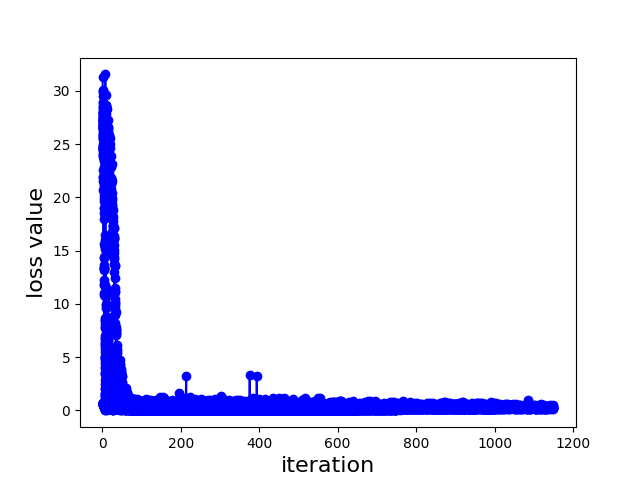
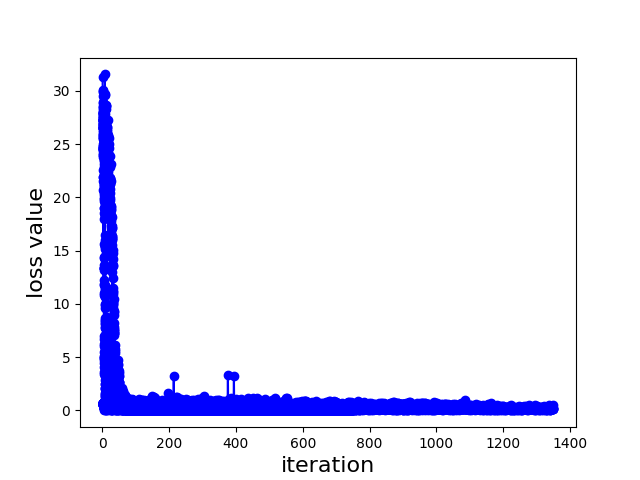
donezo

diff --git a/test.py b/test.py
@@ -1,11 +1,21 @@
-import torch
-import torch_scatter
-import torch_geometric
-import torch_sparse
-import torch_cluster
-from minimol import Minimol
-print("torch version:", torch.__version__)
-print('cuda available:', torch.cuda.is_available())
-if torch.cuda.is_available():
-    print('gpu:', torch.cuda.get_device_name(0))
-print('All imports successful!')
+from deepmol.compound_featurization import MorganFingerprint
+from deepmol.datasets.datasets import SmilesDataset
+from deepmol.models import SklearnModel
+from sklearn.ensemble import RandomForestClassifier
+import numpy as np
+smiles =[
+            "CC(=O)Oc1ccccc1C(=O)O",        # Aspirin
+            "CN1C=NC2=C1C(=O)N(C(=O)N2C)C", # Caffeine
+        ]
+labels = [1,0]
+dataset = SmilesDataset(smiles = smiles, y=labels)
+fp = MorganFingerprint(radius=2, size=2048)
+feat_dataset = fp.featurize(dataset)
+clf = RandomForestClassifier();
+m = SklearnModel(model = clf, task = 'classification')
+m.fit(feat_dataset)
+
+proba = m.predict_proba(feat_dataset)
+print(f"proba type: {type(proba)}")
+print(f"proba type: {np.array(proba).shape}")
+print(f"proba value: {proba}")